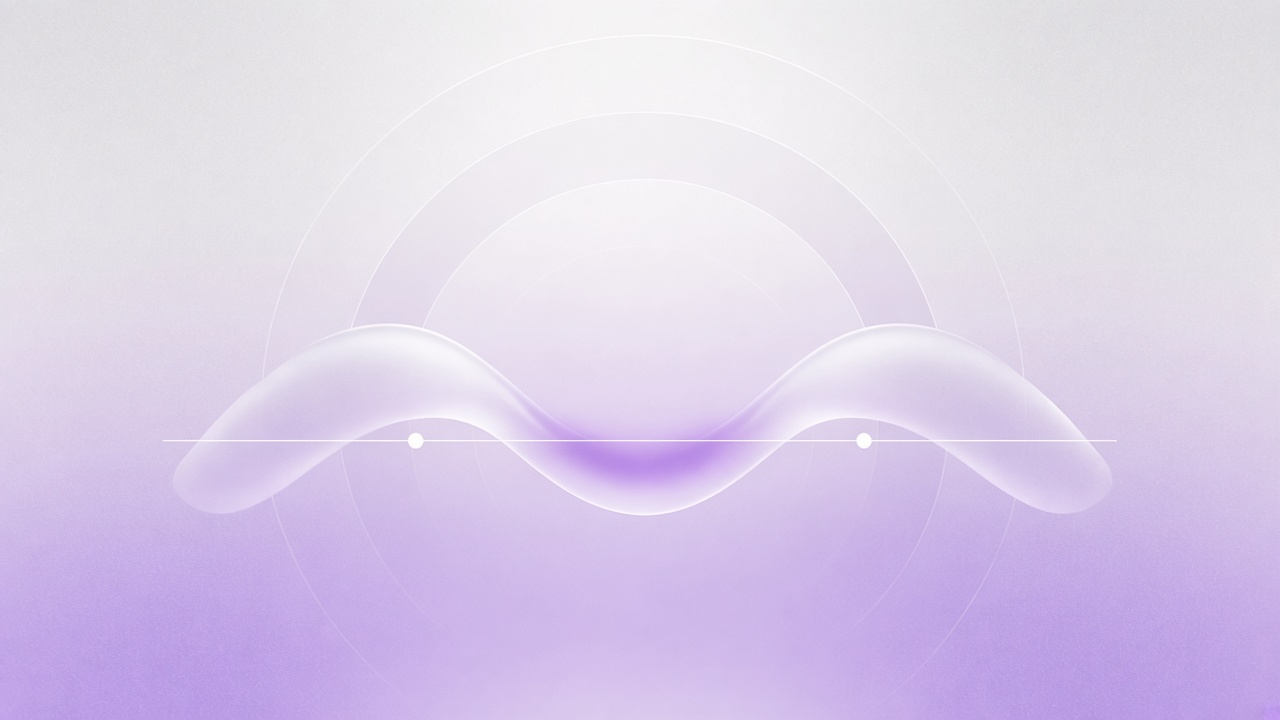
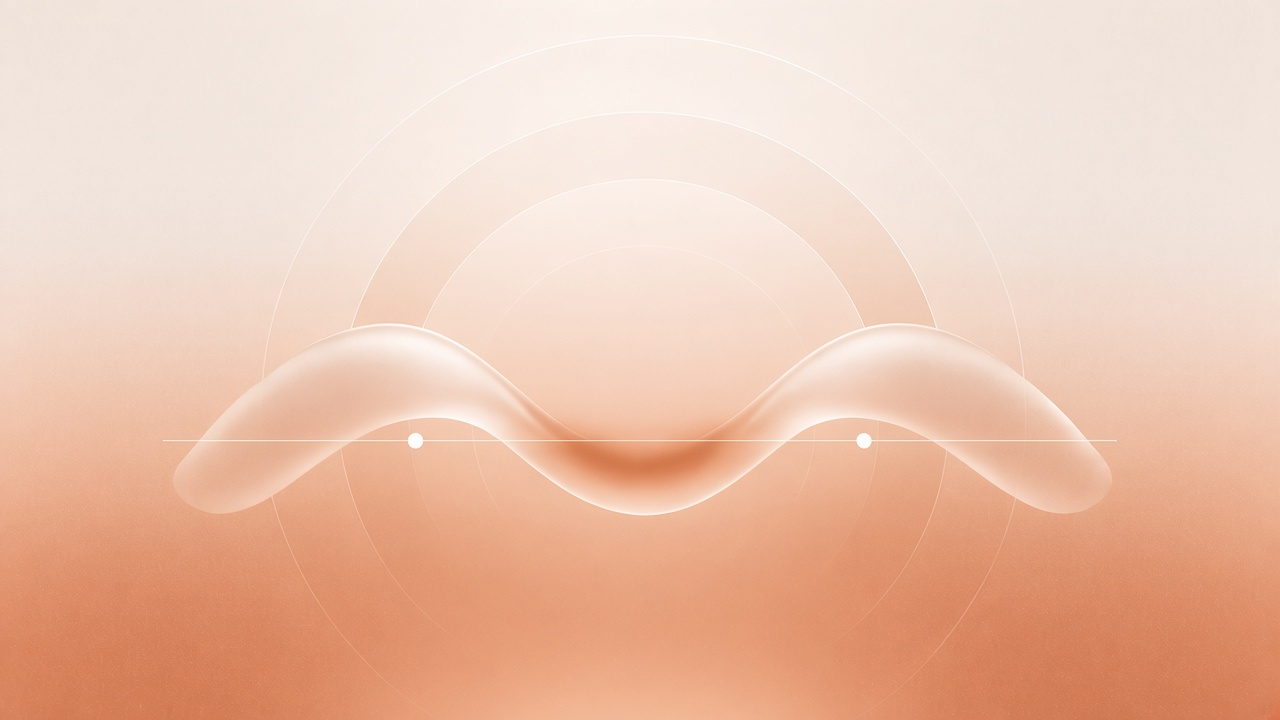
Restyle /services as full-width rows and swap in Mercury graphics.
Replace the two-column option cards with bordered list rows (graphic, copy, range, Learn more / Apply now), cap use cases at three, and use the new 16:9 service images as page heroes. Recolor all eight blog covers.

diff --git a/src/data/services.ts b/src/data/services.ts
@@ -1,3 +1,5 @@
+import type { ImageMetadata } from 'astro';
+
 export type IconName =
   | 'landmark'
   | 'wallet'
@@ -6,6 +8,16 @@ export type IconName =
   | 'file-text'
   | 'layers'
   | 'bitcoin';
+
+const SERVICE_IMAGES = import.meta.glob<{ default: ImageMetadata }>('../assets/services/*.jpg', {
+  eager: true,
+});
+
+const serviceImage = (slug: string): ImageMetadata => {
+  const hit = SERVICE_IMAGES[`../assets/services/${slug}.jpg`];
+  if (!hit) throw new Error(`Missing service image for ${slug}`);
+  return hit.default;
+};
 
 export type ServiceOption = {
   name: string;
@@ -27,6 +39,8 @@ export type Service = {
    * Swap these values between products to change which two are featured.
    */
   featured?: 1 | 2;
+  /** Mercury-style 16:9 graphic for /services rows and the service page hero. */
+  image: ImageMetadata;
   headline: string;
   intro: string;
   whoFor: string;
@@ -88,6 +102,7 @@ export const SERVICES: Service[] = [
     name: 'Collateral & Asset Loans',
     shortName: 'Collateral & Asset',
     icon: 'landmark',
+    image: serviceImage('collateral-asset-loans'),
     summary:
       'Real-estate and collateral-secured business loans that put the assets you already own to work for growth and expansion.',
     headline: 'Put your assets to work.',
@@ -130,12 +145,6 @@ export const SERVICES: Service[] = [
         body: 'Equipment and vehicle financing keeps operating cash in the business while the assets go to work.',
         intent: 'parked work vans in a yard, daylight, empty of people',
       },
-      {
-        industry: 'Construction',
-        title: 'Upgrading technology and site infrastructure.',
-        body: 'A collateral loan converts equipment you already own, or new kit you are buying, into working capital.',
-        intent: 'staged construction equipment, late afternoon, empty of people',
-      },
     ],
     steps: standardSteps('capital'),
     faqs: [
@@ -165,6 +174,7 @@ export const SERVICES: Service[] = [
     name: 'Business Line of Credit',
     shortName: 'Line of Credit',
     icon: 'wallet',
+    image: serviceImage('business-line-of-credit'),
     summary:
       'Flexible, revolving working capital. Draw what you need, when you need it, and pay interest only on the amount you use.',
     featured: 2,
@@ -207,12 +217,6 @@ export const SERVICES: Service[] = [
         body: 'Keep a line on standby and draw during slow stretches, then repay when covers fill.',
         intent: 'empty dining room before open, morning light',
       },
-      {
-        industry: 'Auto Services',
-        title: 'An unexpected repair bill landed.',
-        body: 'The line is there as a cushion so an unplanned cost does not drain the operating account.',
-        intent: 'service bay with a lift, daylight, empty of people',
-      },
     ],
     steps: standardSteps('working capital'),
     faqs: [
@@ -238,6 +242,7 @@ export const SERVICES: Service[] = [
     name: 'Merchant Cash Advance',
     shortName: 'Cash Advance',
     icon: 'zap',
+    image: serviceImage('merchant-cash-advance'),
     summary:
       'Fast working capital based on your future sales, also used as a working capital bridge. $5K to $5M with same-day funding.',
     featured: 1,
@@ -279,12 +284,6 @@ export const SERVICES: Service[] = [
         body: 'Revenue-based capital can fund the campaign while approval looks at bank activity more than a credit score.',
         intent: 'empty cafe counter with a card terminal, warm light',
       },
-      {
-        industry: 'Auto Services',
-        title: 'Equipment broke and work is backing up.',
-        body: 'Same-day funding after approval can cover an urgent repair or replacement.',
-        intent: 'open hood in an empty bay, daylight',
-      },
     ],
     steps: standardSteps('working capital'),
     faqs: [
@@ -310,6 +309,7 @@ export const SERVICES: Service[] = [
     name: 'Business Term Loan',
     shortName: 'Term Loan',
     icon: 'calendar-clock',
+    image: serviceImage('business-term-loan'),
     summary:
       'Long-term loans from $25K to $20M with 5–30 year terms, plus short-term loans from $5K to $5M funded the same day.',
     headline: 'Structured capital for your next big move.',
@@ -351,12 +351,6 @@ export const SERVICES: Service[] = [
         body: 'Structured capital can cover payroll for new staff while revenue catches up.',
         intent: 'empty clinic waiting room, even light',
       },
-      {
-        industry: 'Manufacturing',
-        title: 'A large, planned purchase.',
-        body: 'Short-term loans cover faster, smaller needs; term loans fit bigger investments on a predictable schedule.',
-        intent: 'crate of new parts on a warehouse floor, daylight',
-      },
     ],
     steps: standardSteps('capital'),
     faqs: [
@@ -386,6 +380,7 @@ export const SERVICES: Service[] = [
     name: 'Invoice Factoring Tool',
     shortName: 'Invoice Factoring',
     icon: 'file-text',
+    image: serviceImage('invoice-factoring-tool'),
     summary:
       'An underwritten transaction in which your business sells its receivables at a discount in exchange for cash today.',
     headline: 'Stop waiting on net-60. Get paid today.',
@@ -427,12 +422,6 @@ export const SERVICES: Service[] = [
         body: 'An ongoing AR facility smooths cash flow as receivables turn over.',
         intent: 'packed goods waiting on a dock, daylight, empty of people',
       },
-      {
-        industry: 'Transportation',
-        title: 'Growth without taking on a new loan.',
-        body: 'Factoring is a sale of receivables at a discount, not a loan, so approval leans on customer credit.',
-        intent: 'empty loading bay, morning light',
-      },
     ],
     steps: standardSteps('funding'),
     faqs: [
@@ -458,6 +447,7 @@ export const SERVICES: Service[] = [
     name: 'Consolidation of Positions',
     shortName: 'Consolidation',
     icon: 'layers',
+    image: serviceImage('consolidation-of-positions'),
     summary:
       'Combine stacked advances into one position and save 30%–50% on your current daily or weekly payments, with immediate access to working capital.',
     headline: 'Consolidate. Save 30\u2060–\u206050%. Breathe again.',
@@ -494,12 +484,6 @@ export const SERVICES: Service[] = [
         title: 'Daily remittances leaving no room to operate.',
         body: 'Falcon clients save 30%–50% on average on daily or weekly payments; actual savings depend on the file.',
         intent: 'empty restaurant pass, morning light',
-      },
-      {
-        industry: 'Auto Services',
-        title: 'Getting off the stacking treadmill.',
-        body: 'List each open position. A specialist models one lower payment instead of another stack.',
-        intent: 'service counter with a closed ledger, daylight, empty of people',
       },
     ],
     steps: [
@@ -539,6 +523,7 @@ export const SERVICES: Service[] = [
     name: 'Decentralized Business Financing',
     shortName: 'Digital Assets',
     icon: 'bitcoin',
+    image: serviceImage('decentralized-business-financing'),
     summary:
       'Next-generation digital asset solutions for modern businesses, including crypto onboarding and crypto custodial services.',
     headline: 'Next-generation capital for modern businesses.',
@@ -574,12 +559,6 @@ export const SERVICES: Service[] = [
         title: 'Treasury planning that includes digital assets.',
         body: 'A consultation maps onboarding and custody to the business and its risk tolerance.',
         intent: 'conference table with a closed notebook, daylight, empty of people',
-      },
-      {
-        industry: 'E-commerce',
-        title: 'Understanding the risks before committing.',
-        body: 'Digital asset values can be volatile. We discuss those risks before any decision.',
-        intent: 'packed shipping table, daylight, empty of people',
       },
     ],
     steps: [
